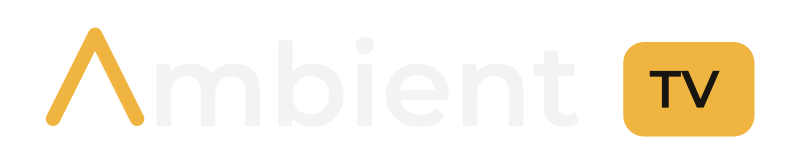
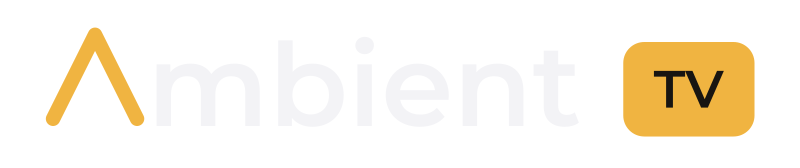
Fix TV badge centering in wordmark, intros and exported branding (#320)
* Fix centered TV lettering in wordmark, Android resources and intro animation

* Regenerate secondary wordmark variants and prevent TV alignment regressions

* Keep generated PNG and platform branding assets synchronized

* Regenerate branding variants from centered TV badge

---------

Changed region(s): [[0.8125, 0.4167, 0.9062, 0.6548]]

diff --git a/app/src/main/java/com/ambient/tv/ui/intro/IntroAnimationOverlay.kt b/app/src/main/java/com/ambient/tv/ui/intro/IntroAnimationOverlay.kt
@@ -143,7 +143,8 @@ private const val GLYPH_SCALE = 0.022f
 private const val LABEL_SCALE = 0.01f
 private val BADGE_TOP_LEFT = Offset(110.526f, -16f)
 private val BADGE_SIZE = Size(25f, 18f)
-private val LABEL_ORIGIN = Offset(115.526f, -3.5f)
+/** Center the TV glyph's 13.32-unit ink bounds inside the 25-unit badge. */
+private val LABEL_ORIGIN = Offset(116.326f, -3.5f)
 /** Ink bounds of the wordmark, Λ stroke and badge included. */
 private const val WORDMARK_LEFT = 0.5f
 private const val WORDMARK_RIGHT = 135.6f

diff --git a/scripts/tests/test_brand_tv_badge_alignment.py b/scripts/tests/test_brand_tv_badge_alignment.py
@@ -1,0 +1,86 @@
+"""Regression guard for the wordmark's TV badge across exports and intro."""
+import re
+import unittest
+import xml.etree.ElementTree as ET
+from pathlib import Path
+
+ROOT = Path(__file__).resolve().parents[2]
+SVG_NS = {"s": "http://www.w3.org/2000/svg"}
+
+
+def _translate(value):
+    match = re.search(r"translate\(\s*([-+\d.]+)[ ,]+([-+\d.]+)", value)
+    if not match:
+        raise AssertionError(f"Missing translate: {value}")
+    return float(match.group(1)), float(match.group(2))
+
+
+class BrandTvBadgeAlignmentTest(unittest.TestCase):
+    def test_master_badge_is_geometrically_centered(self):
+        root = ET.parse(ROOT / "branding/svg/ambient-tv-combo.svg").getroot()
+        badge = root.find(".//s:rect[@id='brand-tv-badge']", SVG_NS)
+        label = root.find(".//s:g[@id='brand-tv-label']", SVG_NS)
+        self.assertIsNotNone(badge)
+        self.assertIsNotNone(label)
+        x, y = _translate(label.get("transform", ""))
+        badge_x = float(badge.get("x"))
+        badge_y = float(badge.get("y"))
+        badge_width = float(badge.get("width"))
+        badge_height = float(badge.get("height"))
+
+        # Existing T ink spans x=4..598, V spans -5..734 at 0.01x;
+        # the second path is offset 6.02 units horizontally.
+        glyph_left = min(4 * .01, 6.02 - 5 * .01)
+        glyph_right = max(598 * .01, 6.02 + 734 * .01)
+        self.assertAlmostEqual(x + (glyph_left + glyph_right) / 2,
+                               badge_x + badge_width / 2, places=3)
+        self.assertAlmostEqual(y - 700 * .01 / 2,
+                               badge_y + badge_height / 2, places=3)
+
+    def test_svg_derivatives_match_master(self):
+        root = ET.parse(ROOT / "branding/svg/ambient-tv-combo.svg").getroot()
+        label = root.find(".//s:g[@id='brand-tv-label']", SVG_NS)
+        expected = _translate(label.get("transform", ""))
+        variants = [
+            "branding/svg/ambient-tv-wordmark.svg",
+            "branding/svg/app/ambient-tv-combo.svg",
+            "branding/svg/app/ambient-tv-wordmark.svg",
+            "app/src/main/assets/branding/ambient-tv-combo.svg",
+            "app/src/main/assets/branding/ambient-tv-wordmark.svg",
+            "docs/assets/wordmark.svg",
+        ]
+        for path in variants:
+            with self.subTest(path=path):
+                doc = ET.parse(ROOT / path).getroot()
+                copy = doc.find(".//s:g[@id='brand-tv-label']", SVG_NS)
+                self.assertIsNotNone(copy)
+                self.assertEqual(expected, _translate(copy.get("transform", "")))
+        banner = (ROOT / "branding/svg/ambient-tv-banner.svg").read_text()
+        self.assertIn(f'translate({expected[0]:.9f} {expected[1]})', banner)
+        preview = (ROOT / "branding/preview/branding-overview.svg").read_text()
+        self.assertEqual(3, preview.count(f'translate({expected[0]:.9f}'))
+
+    def test_android_vectors_and_intros_match_master(self):
+        root = ET.parse(ROOT / "branding/svg/ambient-tv-combo.svg").getroot()
+        label = root.find(".//s:g[@id='brand-tv-label']", SVG_NS)
+        label_x, label_y = _translate(label.get("transform", ""))
+        for path in [
+            "app/src/main/res/drawable/ic_brand_wordmark.xml",
+            "app/src/main/res/drawable/app_banner.xml",
+        ]:
+            with self.subTest(path=path):
+                content = (ROOT / path).read_text()
+                self.assertIn(f'android:translateX="{label_x}"', content)
+                self.assertIn(f'android:translateY="{label_y}"', content)
+
+        # The intro's drawing coordinates are relative to the (49, 28)
+        # wordmark origin, so the same geometry must be used in each intro.
+        intro = (ROOT / "app/src/main/java/com/ambient/tv/ui/intro/IntroAnimationOverlay.kt").read_text()
+        match = re.search(r'LABEL_ORIGIN\s*=\s*Offset\(([-+\d.]+)f,\s*([-+\d.]+)f\)', intro)
+        self.assertIsNotNone(match)
+        self.assertAlmostEqual(float(match.group(1)), label_x - 49, places=3)
+        self.assertAlmostEqual(float(match.group(2)), label_y - 28, places=3)
+
+
+if __name__ == "__main__":
+    unittest.main()

diff --git a/scripts/export_branding.py b/scripts/export_branding.py
@@ -264,6 +264,34 @@ def render_png(source, destination, width):
     print(f"  {destination.relative_to(ROOT)} ({width} × {height})")
 
 
+
+def render_extra_wordmark_pngs():
+    """Keep README and light-background exports tied to the same SVG master.
+
+    These historical variants were previously one-off PNGs; unlike the standard
+    exports, they could be left with outdated badge lettering after an SVG fix.
+    """
+    from tempfile import TemporaryDirectory
+
+    source = ET.parse(SVG / "ambient-tv-wordmark.svg").getroot()
+    with TemporaryDirectory() as directory:
+        temp = Path(directory)
+        dark = deepcopy(source)
+        for node in dark.iter():
+            if node.get("fill", "").lower() == "#f3f3f6":
+                node.set("fill", "#171A1F")
+        dark_path = temp / "wordmark-dark.svg"
+        ET.ElementTree(dark).write(dark_path, encoding="utf-8", xml_declaration=True)
+        render_png(dark_path, PNG / "wordmark/ambient-tv-wordmark-dark-800.png", 800)
+
+        readme = document(800, 222, "Ambient TV README wordmark")
+        readme.append(rectangle(0, 0, 800, 222, "#14171A", 34))
+        embed(readme, source, 0, 27, 800, 168)
+        readme_path = temp / "wordmark-readme.svg"
+        ET.ElementTree(readme).write(readme_path, encoding="utf-8", xml_declaration=True)
+        render_png(readme_path, PNG / "wordmark/ambient-tv-wordmark-readme.png", 800)
+
+
 def export_png_kit():
     exports = {
         "icon": (24, 48, 96, 192, 512),
@@ -277,6 +305,7 @@ def export_png_kit():
         source = SVG / f"ambient-tv-{kind}.svg"
         for size in sizes:
             render_png(source, PNG / kind / f"ambient-tv-{kind}-{size}.png", size)
+    render_extra_wordmark_pngs()
     render_png(BRANDING / "preview/branding-overview.svg",
                BRANDING / "preview/branding-overview.png", 1200)
     # Phone launcher samples this bitmap (adaptive foreground). Keep only the

diff --git a/BRANDING.md b/BRANDING.md
@@ -57,7 +57,7 @@ Die Systemnamen und -zeichen gehören weiterhin den jeweiligen Anbietern.
 Die gemeinsame Quelle ist `branding/svg/ambient-tv-combo.svg`. Mit
 `rtk proxy /usr/bin/python3 scripts/export_branding.py` werden zuerst Icon,
 Wortmarke, Banner und Launcher als eigenständige SVGs abgeleitet und danach alle
-PNGs unter `branding/png/` exportiert. Die bestehenden Dateinamen bleiben erhalten.
+PNGs unter `branding/png/` exportiert. Die bestehenden Dateinamen bleiben erhalten. Auch die README-Version auf dunklem Hintergrund und die Variante mit dunkler Schrift werden aus dem SVG-Master erzeugt.
 Der gleiche Lauf erzeugt die Android-Plattformvektoren für Launcher und Banner
 sowie die verbleibenden Ressourcen-Aliase aus diesen SVGs.
 
